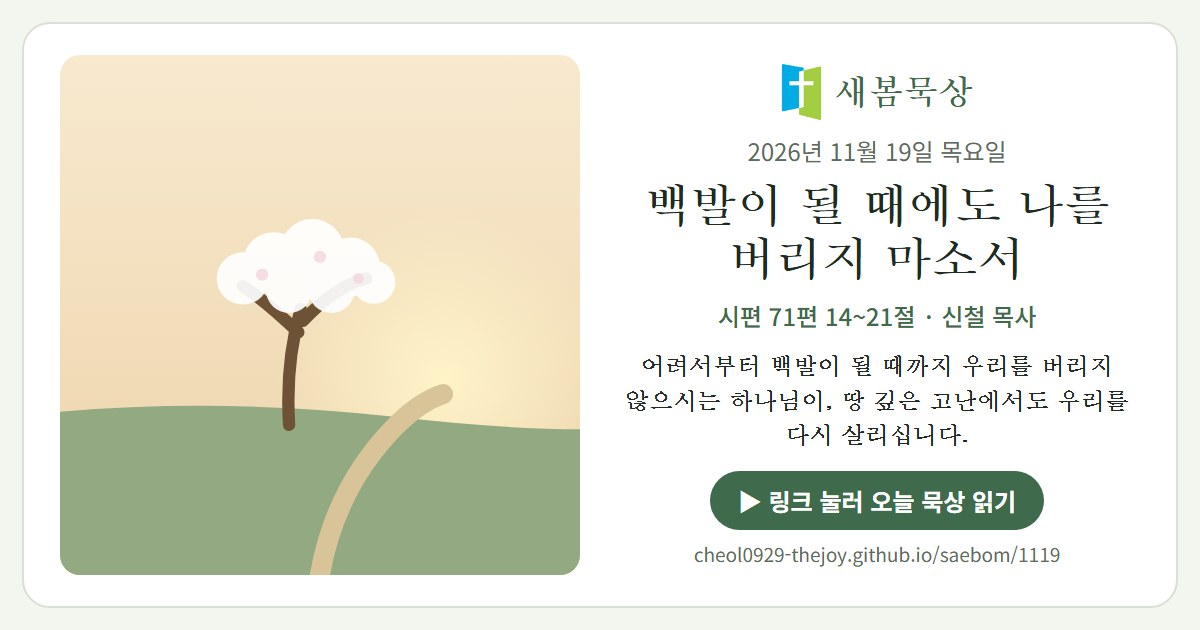
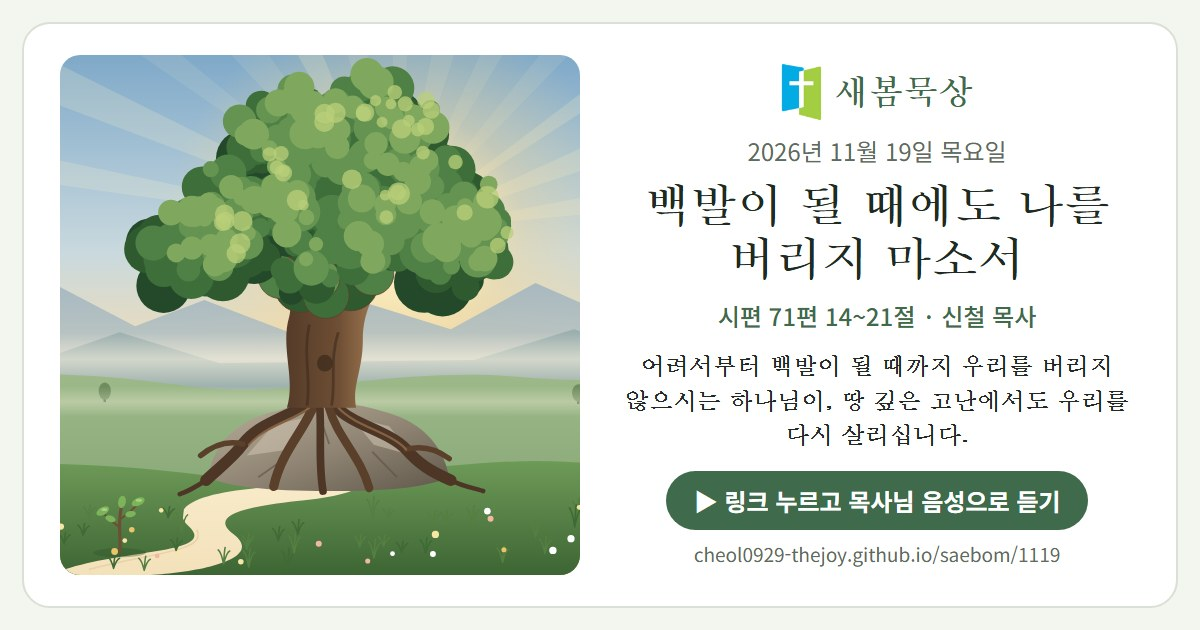
새봄묵상 11.19 백발이 될 때에도 나를 버리지 마소서 공유 카드 (카드 다시 만듦)

diff --git a/1119.html b/1119.html
@@ -1,16 +1,19 @@
 <!doctype html><html lang="ko"><head><meta charset="utf-8">
 <meta name="viewport" content="width=device-width,initial-scale=1">
-<title>새봄 2026</title>
+<title>새봄묵상 · 백발이 될 때에도 나를 버리지 마소서 (11.19)</title>
 <meta property="og:type" content="article">
 <meta property="og:site_name" content="새봄묵상">
-<meta property="og:title" content="새봄 2026">
-<meta property="og:description" content="교회, 사명의 자리에 서라">
-<meta name="description" content="교회, 사명의 자리에 서라">
+<meta property="og:title" content="새봄묵상 · 백발이 될 때에도 나를 버리지 마소서 (11.19)">
+<meta property="og:description" content="어려서부터 백발이 될 때까지 우리를 버리지 않으시는 하나님이, 땅 깊은 고난에서도 우리를 다시 살리십니다.">
+<meta name="description" content="어려서부터 백발이 될 때까지 우리를 버리지 않으시는 하나님이, 땅 깊은 고난에서도 우리를 다시 살리십니다.">
 <meta property="og:image" content="https://cheol0929-thejoy.github.io/saebom/1119/share.jpg">
 <meta property="og:image:secure_url" content="https://cheol0929-thejoy.github.io/saebom/1119/share.jpg">
 <meta property="og:image:type" content="image/jpeg">
 <meta property="og:image:width" content="1200"><meta property="og:image:height" content="630">
 <meta name="twitter:card" content="summary_large_image">
+<meta name="twitter:title" content="새봄묵상 · 백발이 될 때에도 나를 버리지 마소서 (11.19)">
+<meta name="twitter:description" content="어려서부터 백발이 될 때까지 우리를 버리지 않으시는 하나님이, 땅 깊은 고난에서도 우리를 다시 살리십니다.">
+<meta name="twitter:image" content="https://cheol0929-thejoy.github.io/saebom/1119/share.jpg">
 <style>body{font-family:sans-serif;text-align:center;padding:40px 16px;background:#F3F5EF;color:#1F2A22}a{color:#3F6B4C;font-size:20px}</style>
 </head><body><p>새봄묵상으로 이동합니다…</p><p><a href="https://claude.ai/artifact/83acT3uNMUC3NGidY5284F#d20261119">바로 가기</a></p>
 <script>setTimeout(function(){location.replace("https://claude.ai/artifact/83acT3uNMUC3NGidY5284F#d20261119");},300);</script></body></html>

diff --git a/1119/index.html b/1119/index.html
@@ -1,16 +1,19 @@
 <!doctype html><html lang="ko"><head><meta charset="utf-8">
 <meta name="viewport" content="width=device-width,initial-scale=1">
-<title>새봄 2026</title>
+<title>새봄묵상 · 백발이 될 때에도 나를 버리지 마소서 (11.19)</title>
 <meta property="og:type" content="article">
 <meta property="og:site_name" content="새봄묵상">
-<meta property="og:title" content="새봄 2026">
-<meta property="og:description" content="교회, 사명의 자리에 서라">
-<meta name="description" content="교회, 사명의 자리에 서라">
+<meta property="og:title" content="새봄묵상 · 백발이 될 때에도 나를 버리지 마소서 (11.19)">
+<meta property="og:description" content="어려서부터 백발이 될 때까지 우리를 버리지 않으시는 하나님이, 땅 깊은 고난에서도 우리를 다시 살리십니다.">
+<meta name="description" content="어려서부터 백발이 될 때까지 우리를 버리지 않으시는 하나님이, 땅 깊은 고난에서도 우리를 다시 살리십니다.">
 <meta property="og:image" content="https://cheol0929-thejoy.github.io/saebom/1119/share.jpg">
 <meta property="og:image:secure_url" content="https://cheol0929-thejoy.github.io/saebom/1119/share.jpg">
 <meta property="og:image:type" content="image/jpeg">
 <meta property="og:image:width" content="1200"><meta property="og:image:height" content="630">
 <meta name="twitter:card" content="summary_large_image">
+<meta name="twitter:title" content="새봄묵상 · 백발이 될 때에도 나를 버리지 마소서 (11.19)">
+<meta name="twitter:description" content="어려서부터 백발이 될 때까지 우리를 버리지 않으시는 하나님이, 땅 깊은 고난에서도 우리를 다시 살리십니다.">
+<meta name="twitter:image" content="https://cheol0929-thejoy.github.io/saebom/1119/share.jpg">
 <style>body{font-family:sans-serif;text-align:center;padding:40px 16px;background:#F3F5EF;color:#1F2A22}a{color:#3F6B4C;font-size:20px}</style>
 </head><body><p>새봄묵상으로 이동합니다…</p><p><a href="https://claude.ai/artifact/83acT3uNMUC3NGidY5284F#d20261119">바로 가기</a></p>
 <script>setTimeout(function(){location.replace("https://claude.ai/artifact/83acT3uNMUC3NGidY5284F#d20261119");},300);</script></body></html>
